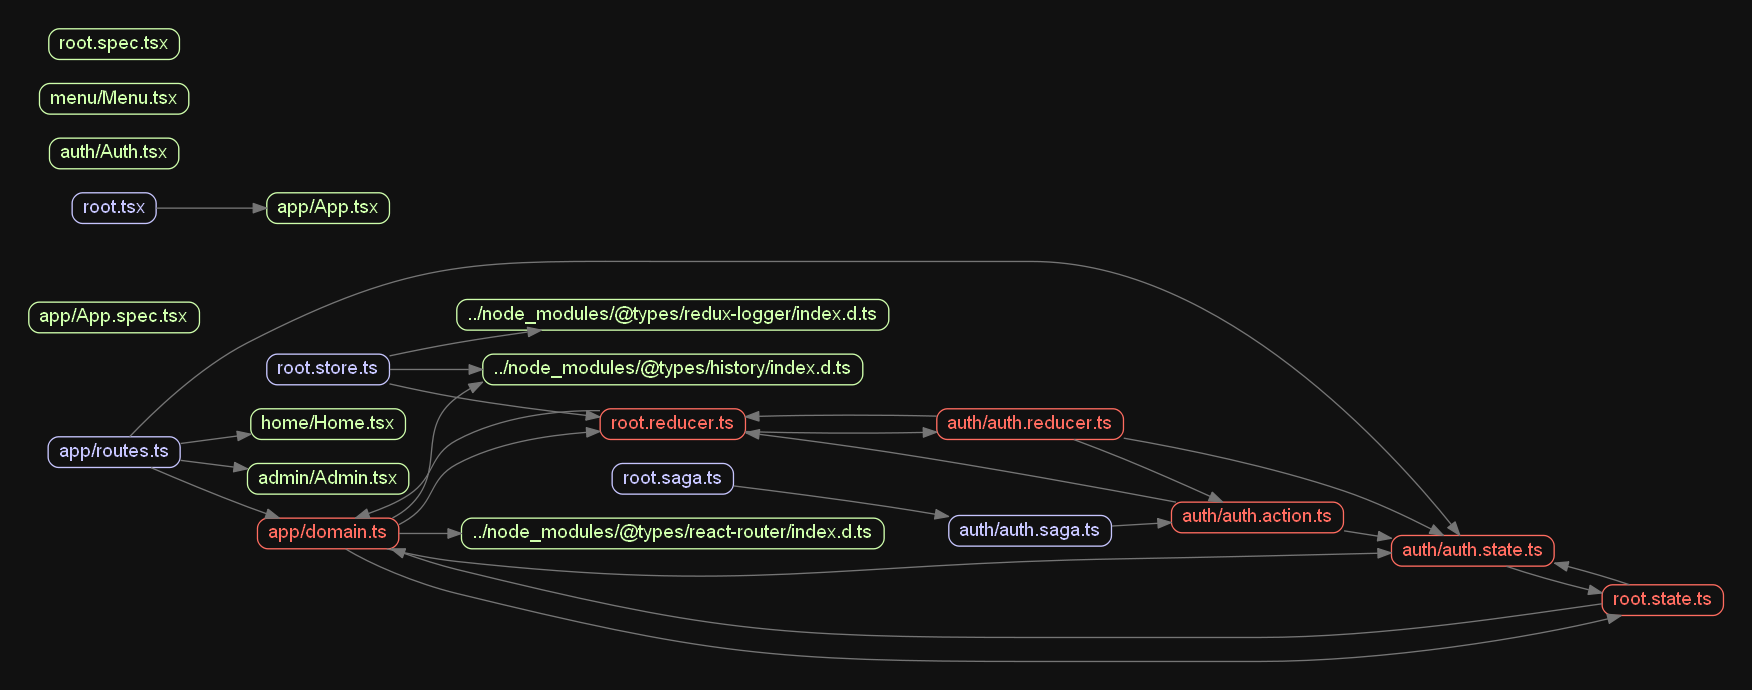
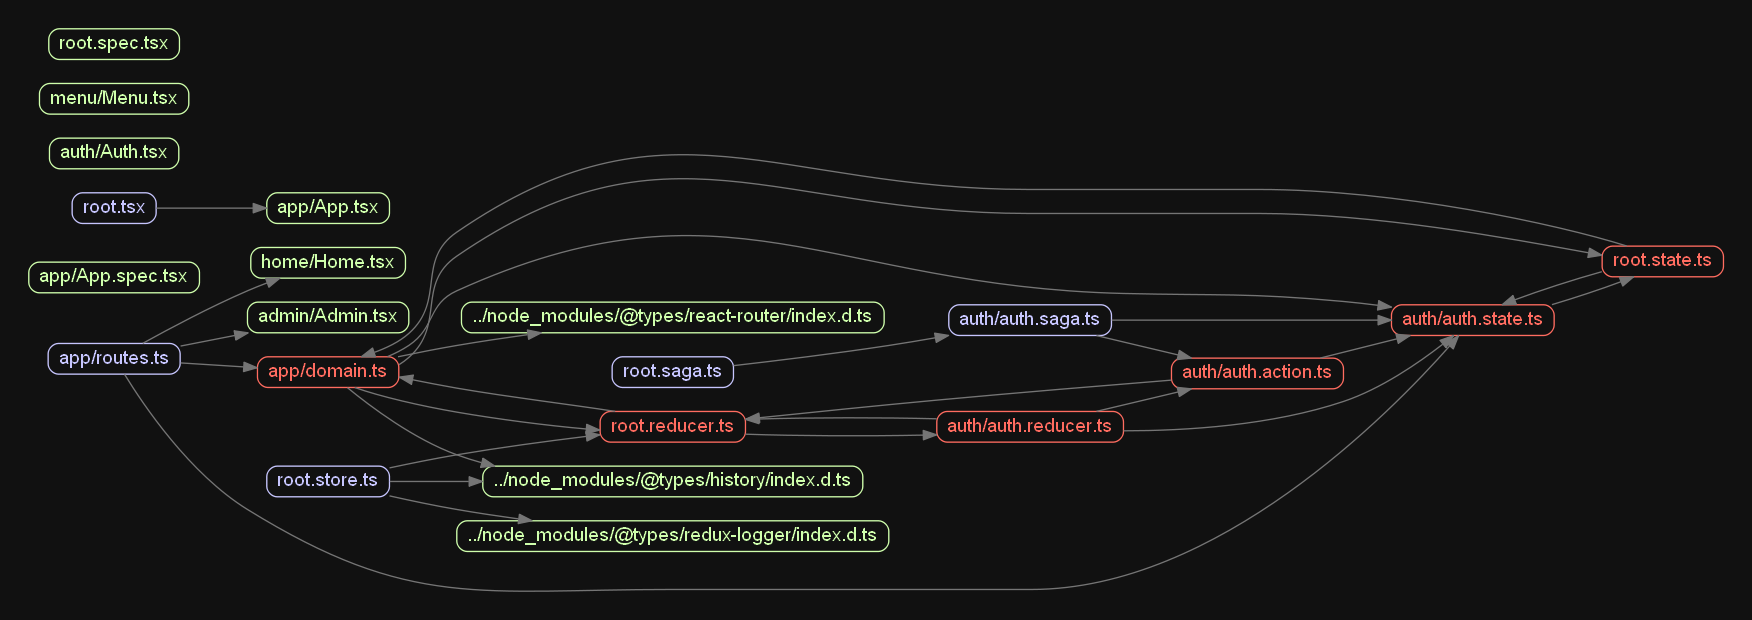
Fixed broken permissions

diff --git a/src/auth/auth.saga.ts b/src/auth/auth.saga.ts
@@ -1,6 +1,7 @@
 import axios from "axios";
 import { all, put, takeLatest } from "redux-saga/effects";
 import { ACTION_TYPES, ILoginRequest } from "./auth.action";
+import { Permissions } from "./auth.state";
 
 function* loginUser(id: string, password: string) {
   try {
@@ -9,12 +10,19 @@ function* loginUser(id: string, password: string) {
       password,
     });
     const result = yield res.data;
+    const permissions = [];
+    for (const p of result.permissions) {
+      const lookup = Permissions.get(p);
+      if (lookup) {
+        permissions.push(lookup);
+      }
+    }
     yield put({
       type: ACTION_TYPES.LOGIN_SUCCESS,
       user: {
         id: result.id,
         name: result.name,
-        permissions: result.permissions,
+        permissions,
       },
     });
   } catch (error) {

diff --git a/src/app/App.spec.tsx b/src/app/App.spec.tsx
@@ -4,7 +4,7 @@ import { createMemoryHistory } from "history";
 import * as React from "react";
 import { Provider } from "react-redux";
 import configureStore from "redux-mock-store";
-import { IUser, PERMISSIONS } from "../auth/auth.state";
+import { IUser, Permissions } from "../auth/auth.state";
 import { App } from "./App";
 import routes from "./routes";
 
@@ -24,7 +24,7 @@ test("Shows admin only if the user has permissions", () => {
   const user: IUser = {
     id: "admin",
     name: "Admin",
-    permissions: [PERMISSIONS.admin],
+    permissions: [Permissions.get("ADMIN")],
   };
   expect(render(createApp(user)).find(".secret")).toBeTruthy();
   expect(render(createApp(null)).find(".not-found")).toBeTruthy();

diff --git a/src/root.tsx b/src/root.tsx
@@ -1,17 +1,13 @@
-import { ConnectedRouter } from "connected-react-router";
-import { createBrowserHistory } from "history";
 import * as React from "react";
 import * as ReactDOM from "react-dom";
 import { AppContainer } from "react-hot-loader";
 import { Provider } from "react-redux";
-import { applyMiddleware, compose, createStore } from "redux";
 import App from "./app/App";
 import rootSaga from "./root.saga";
-import store, { getHistory, sagaMiddleware } from "./root.store";
+import store, { sagaMiddleware } from "./root.store";
 
 sagaMiddleware.run(rootSaga);
 function render(component: JSX.Element) {
-  console.log("rendering");
   ReactDOM.render(
     <AppContainer>
       <Provider store={store}>

diff --git a/src/app/App.tsx b/src/app/App.tsx
@@ -20,7 +20,9 @@ export class App extends React.Component<IProps> {
   public render() {
     const toAdd = routes
       .filter((r) => r.permissions.length === 0 || r.permissions
-        .every((p) => this.props.user && this.props.user.permissions.map((up) => up.id).indexOf(p.id) > -1))
+        .every((p) => this.props.user && this.props.user.permissions.some((up) => {
+          return p.id === up.id;
+        })))
       .map((r) => {
         return {
           link: <Link key={r.path} to={r.path}>{r.display}</Link>,

diff --git a/src/auth/auth.state.ts b/src/auth/auth.state.ts
@@ -20,13 +20,14 @@ export interface IUser {
   permissions: IPermission[];
 }
 
-export const PERMISSIONS = {
-  admin: {
-    description: "Access to the admin panel",
-    id: "ADMIN",
-    name: "Admin",
-  },
-};
+const permissions: IPermission[] = [{
+  description: "Can manage admin settings",
+  id: "ADMIN",
+  name: "Admin",
+}];
+
+export const Permissions: Map<string, IPermission> = new Map<string, IPermission>();
+permissions.forEach((p) => Permissions.set(p.id, p));
 
 export type IProps = IBaseProps;
 

diff --git a/src/app/routes.ts b/src/app/routes.ts
@@ -1,5 +1,5 @@
 import Admin from "../admin/Admin";
-import { PERMISSIONS } from "../auth/auth.state";
+import { Permissions } from "../auth/auth.state";
 import Home from "../home/Home";
 import { IRoute } from "./domain";
 
@@ -16,7 +16,7 @@ const routes: IRoute[] = [
         display: "Admin",
         exact: true,
         path: "/admin",
-        permissions: [],
+        permissions: [Permissions.get("ADMIN")],
     },
 ];
 

diff --git a/tools/server.js b/tools/server.js
@@ -37,7 +37,7 @@ app.post("/api/auth", (req, res) => {
             id: "1",
             name: "Admin",
             permissions: [
-                "ADMIN.EDIT"
+                "ADMIN"
             ]});
         res.status(200);
     }
